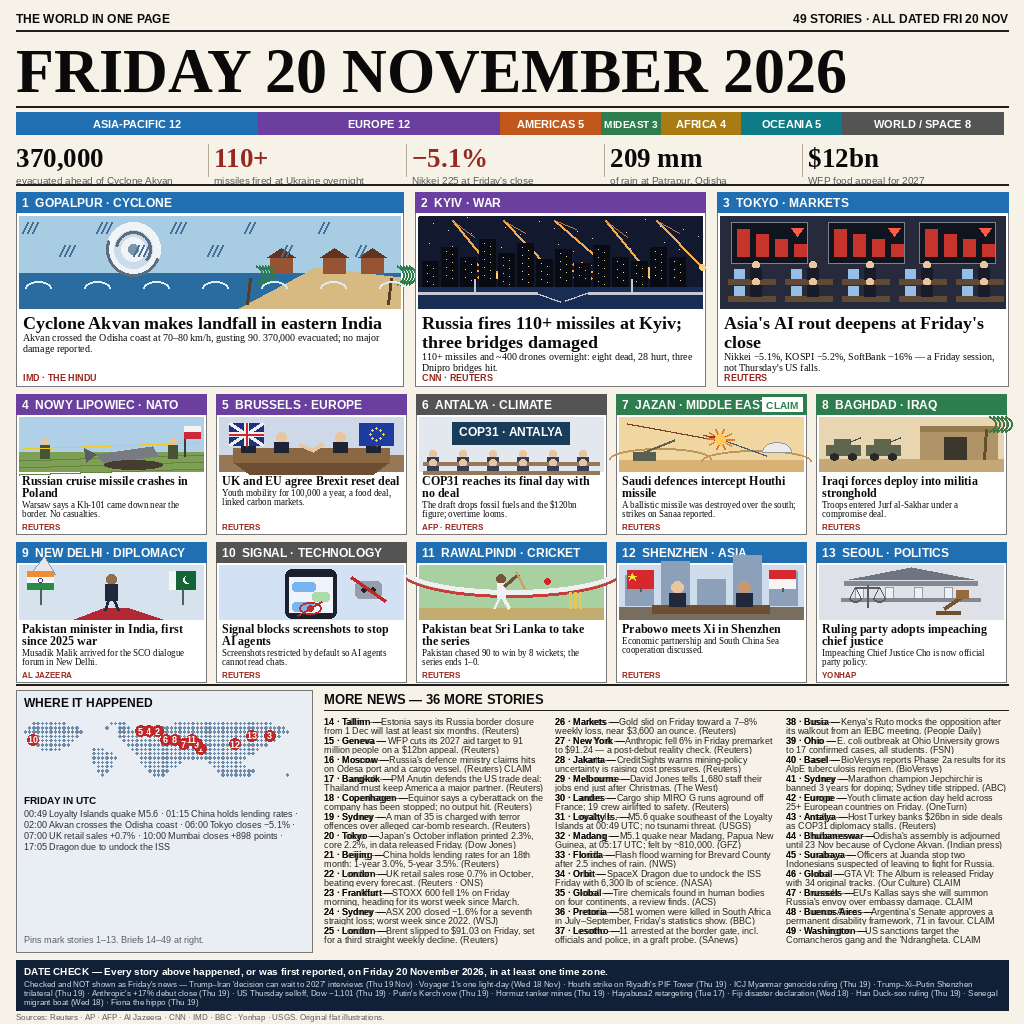
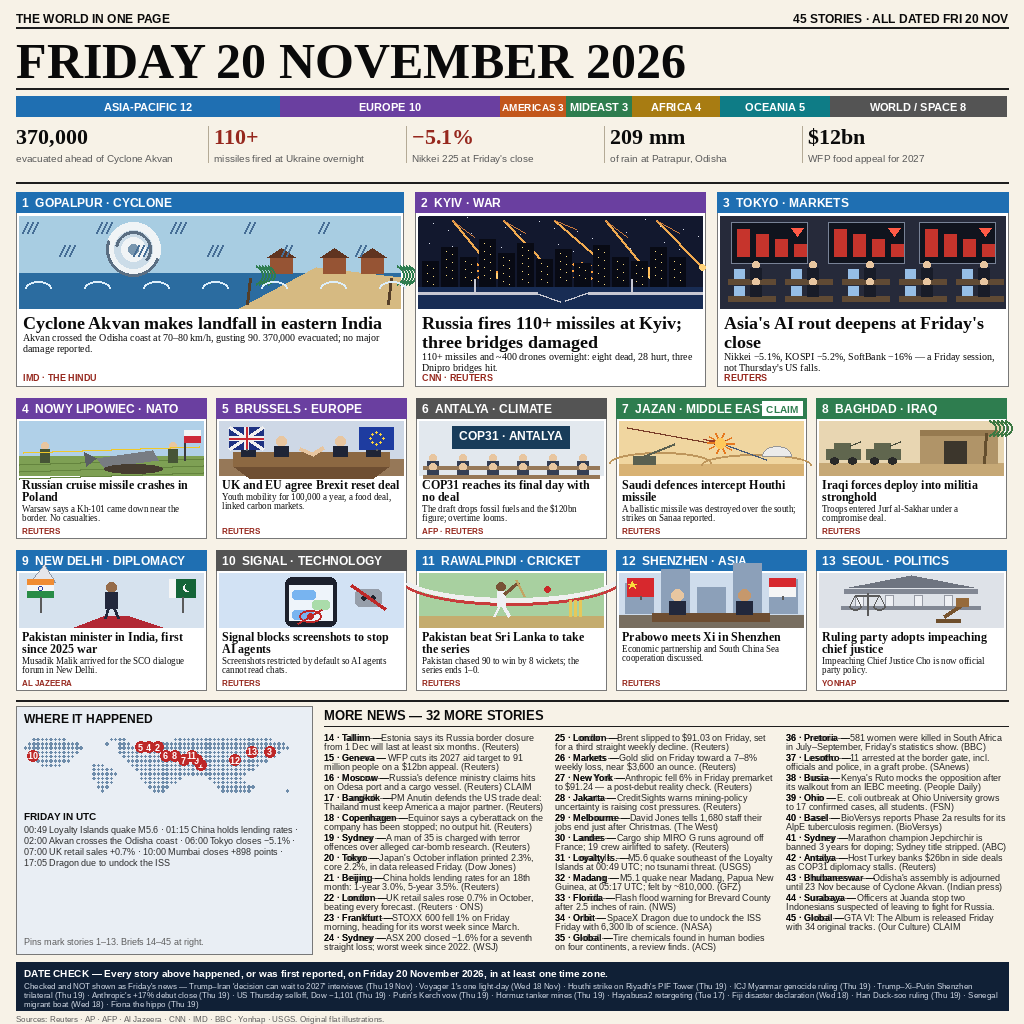
Revision per Keva 19:06-19:08: fewer briefs (45 stories), top margin on every row, figures captions clear of the rule, 3 DATE CHECK band variants

Changed region(s): [[0.0, 0.375, 1.0, 1.0], [0.0, 0.0, 1.0, 0.1875]]

diff --git a/render.py b/render.py
@@ -507,14 +507,10 @@ BRIEFS = [
     (39, "Ohio", "E. coli outbreak at Ohio University grows to 17 confirmed cases, all students. (FSN)"),
     (40, "Basel", "BioVersys reports Phase 2a results for its AlpE tuberculosis regimen. (BioVersys)"),
     (41, "Sydney", "Marathon champion Jepchirchir is banned 3 years for doping; Sydney title stripped. (ABC)"),
-    (42, "Europe", "Youth climate action day held across 25+ European countries on Friday. (OneTurn)"),
-    (43, "Antalya", "Host Turkey banks $26bn in side deals as COP31 diplomacy stalls. (Reuters)"),
-    (44, "Bhubaneswar", "Odisha's assembly is adjourned until 23 Nov because of Cyclone Akvan. (Indian press)"),
-    (45, "Surabaya", "Officers at Juanda stop two Indonesians suspected of leaving to fight for Russia."),
-    (46, "Global", "GTA VI: The Album is released Friday with 34 original tracks. (Our Culture) CLAIM"),
-    (47, "Brussels", "EU's Kallas says she will summon Russia's envoy over embassy damage. CLAIM"),
-    (48, "Buenos Aires", "Argentina's Senate approves a permanent disability framework, 71 in favour. CLAIM"),
-    (49, "Washington", "US sanctions target the Comancheros gang and the 'Ndrangheta. CLAIM"),
+    (42, "Antalya", "Host Turkey banks $26bn in side deals as COP31 diplomacy stalls. (Reuters)"),
+    (43, "Bhubaneswar", "Odisha's assembly is adjourned until 23 Nov because of Cyclone Akvan. (Indian press)"),
+    (44, "Surabaya", "Officers at Juanda stop two Indonesians suspected of leaving to fight for Russia."),
+    (45, "Global", "GTA VI: The Album is released Friday with 34 original tracks. (Our Culture) CLAIM"),
 ]
 FIGURES = [
     ("370,000", "evacuated ahead of Cyclone Akvan"),
@@ -535,11 +531,11 @@ CW = W - 2 * MX  # 992
 # masthead
 f = F(SANS_B, 12)
 d.text((MX, 12), "THE WORLD IN ONE PAGE", font=f, fill=INK)
-r = "49 STORIES · ALL DATED FRI 20 NOV"
+r = "45 STORIES · ALL DATED FRI 20 NOV"
 d.text((W - MX - tw(f, r), 12), r, font=f, fill=INK)
-d.line([MX, 30, W - MX, 30], fill=RULE, width=2)
-draw_fit("FRIDAY 20 NOVEMBER 2026", MX, 36, SERIF_B, 62, CW, 1, fill=INK)
-d.line([MX, 106, W - MX, 106], fill=RULE, width=2)
+d.line([MX, 27, W - MX, 27], fill=RULE, width=2)
+draw_fit("FRIDAY 20 NOVEMBER 2026", MX, 33, SERIF_B, 50, CW, 1, fill=INK)
+d.line([MX, 88, W - MX, 88], fill=RULE, width=2)
 
 # region bar (counts from data)
 from collections import Counter
@@ -549,8 +545,8 @@ for p in HEROES + CARDS:
 brief_regions = ["EUROPE", "WORLD", "EUROPE", "ASIA", "EUROPE", "OCEANIA", "ASIA", "ASIA", "EUROPE", "EUROPE",
                  "OCEANIA", "WORLD", "WORLD", "AMERICAS", "ASIA", "OCEANIA", "EUROPE", "OCEANIA", "OCEANIA",
                  "AMERICAS", "WORLD", "WORLD", "AFRICA", "AFRICA", "AFRICA", "AMERICAS", "EUROPE", "AFRICA",
-                 "EUROPE", "MIDEAST", "ASIA", "ASIA", "WORLD", "EUROPE", "AMERICAS", "AMERICAS"]
-assert len(brief_regions) == len(BRIEFS) == 36, (len(brief_regions), len(BRIEFS))
+                 "MIDEAST", "ASIA", "ASIA", "WORLD"]
+assert len(brief_regions) == len(BRIEFS) == 32, (len(brief_regions), len(BRIEFS))
 for rgn in brief_regions:
     cnt[rgn] += 1
 order = ["ASIA", "EUROPE", "AMERICAS", "MIDEAST", "AFRICA", "OCEANIA", "WORLD"]
@@ -558,30 +554,30 @@ names = {"ASIA": "ASIA-PACIFIC", "EUROPE": "EUROPE", "AMERICAS": "AMERICAS", "MI
          "AFRICA": "AFRICA", "OCEANIA": "OCEANIA", "WORLD": "WORLD / SPACE"}
 total = sum(cnt[o] for o in order)
 x = MX
-ybar = 112
+ybar = 96
 for o in order:
     wseg = int(CW * cnt[o] / total)
-    d.rectangle([x, ybar, x + wseg, ybar + 22], fill=REGION_COLORS[o])
+    d.rectangle([x, ybar, x + wseg, ybar + 20], fill=REGION_COLORS[o])
     lab = f"{names[o]} {cnt[o]}"
     for _sz in (11, 10, 9, 8):
         fl = F(SANS_B, _sz)
         if tw(fl, lab) < wseg - 4:
-            d.text((x + (wseg - tw(fl, lab)) / 2, ybar + 6), lab, font=fl, fill=(255, 255, 255))
+            d.text((x + (wseg - tw(fl, lab)) / 2, ybar + 5), lab, font=fl, fill=(255, 255, 255))
             break
     x += wseg
 
-# figures row
-yfig = 142
+# figures row (caption ends ~yfig+49; rule below at 182 keeps 9px clear — no strike-through)
+yfig = 124
 fw = CW // 5
 for i, (num, cap) in enumerate(FIGURES):
     fx = MX + i * fw
     if i:
-        d.line([fx - 6, yfig + 2, fx - 6, yfig + 34], fill=(180, 170, 150), width=1)
-    draw_fit(num, fx, yfig, SERIF_B, 27, fw - 12, 1, fill=(150, 40, 30) if i in (1, 2) else INK)
-    draw_fit(cap, fx, yfig + 32, SANS, 10, fw - 12, 2, fill=GREY, leading=1.05)
-d.line([MX, 184, W - MX, 184], fill=RULE, width=2)
+        d.line([fx - 6, yfig + 2, fx - 6, yfig + 38], fill=(180, 170, 150), width=1)
+    draw_fit(num, fx, yfig, SERIF_B, 22, fw - 12, 1, fill=(150, 40, 30) if i in (1, 2) else INK)
+    draw_fit(cap, fx, yfig + 28, SANS, 10, fw - 12, 2, fill=GREY, leading=1.05)
+d.line([MX, 182, W - MX, 182], fill=RULE, width=2)
 
-# heroes: y 192..386 (194 tall), widths 4:3:3
+# heroes: y 192..386 (194 tall, 10px margin above from rule at 182), widths 4:3:3
 HY, HH = 192, 194
 gaps = 12
 usable = CW - 2 * gaps
@@ -599,13 +595,13 @@ for p, wpx in zip(HEROES, hw):
     d.text((x + 7, HY + HH - 14), p["source"], font=F(SANS_B, 9), fill=(150, 40, 30))
     x += wpx + gaps
 
-# cards: two rows of five, y 394.. and 540.., 140 tall
-CY = 394
+# cards: two rows of five, y 398.. and 550.., 140 tall, 12px margin above each row
+CY = 398
 CHH = 140
 cgap = 10
 cw5 = (CW - 4 * cgap) // 5
 for row in range(2):
-    y = CY + row * (CHH + 8)
+    y = CY + row * (CHH + 12)
     for col in range(5):
         p = CARDS[row * 5 + col]
         x = MX + col * (cw5 + cgap)
@@ -619,8 +615,8 @@ for row in range(2):
         draw_fit(p["summary"], x + 6, ty + 1, SERIF, 9, cw5 - 12, 2, leading=1.08)
         d.text((x + 6, y + CHH - 12), p["source"], font=F(SANS_B, 8), fill=(150, 40, 30))
 
-# bottom band: map left, briefs right — y 690..952
-BY, BH = 690, 262
+# bottom band: map left, briefs right — y 706..954 (rule at 700, 10px below cards)
+BY, BH = 706, 248
 d.line([MX, BY - 6, W - MX, BY - 6], fill=RULE, width=2)
 MAPW = 296
 d.rectangle([MX, BY, MX + MAPW, BY + BH], fill=(233, 238, 244), outline=(120, 120, 120))
@@ -665,18 +661,18 @@ d.text((MX + 8, tl_y), "FRIDAY IN UTC", font=F(SANS_B, 10), fill=INK)
 draw_fit("00:49 Loyalty Islands quake M5.6 · 01:15 China holds lending rates · 02:00 Akvan crosses the Odisha coast · "
          "06:00 Tokyo closes −5.1% · 07:00 UK retail sales +0.7% · 10:00 Mumbai closes +898 points · 17:05 Dragon due to undock the ISS",
          MX + 8, tl_y + 14, SANS, 9, MAPW - 16, 6, fill=(40, 40, 40), leading=1.25)
-d.text((MX + 8, BY + BH - 18), "Pins mark stories 1–13. Briefs 14–49 at right.", font=F(SANS, 9), fill=GREY)
+d.text((MX + 8, BY + BH - 18), "Pins mark stories 1–13. Briefs 14–45 at right.", font=F(SANS, 9), fill=GREY)
 
 # briefs: 3 columns x 12
 BX = MX + MAPW + 12
 BW3 = (W - MX - BX - 2 * 10) // 3
-d.text((BX, BY + 2), "MORE NEWS — 36 MORE STORIES", font=F(SANS_B, 13), fill=INK)
+d.text((BX, BY + 2), "MORE NEWS — 32 MORE STORIES", font=F(SANS_B, 13), fill=INK)
 d.line([BX, BY + 20, W - MX, BY + 20], fill=RULE, width=1)
-per_col = 12
+per_col = 11
 for i, (num, city, text) in enumerate(BRIEFS):
     col = i // per_col; row = i % per_col
     bx = BX + col * (BW3 + 10)
-    by = BY + 26 + row * 19
+    by = BY + 26 + row * 20
     head = f"{num} · {city} — "
     fb = F(SANS_B, 9)
     d.text((bx, by), head, font=fb, fill=INK)
@@ -692,15 +688,25 @@ for i, (num, city, text) in enumerate(BRIEFS):
         yy += 9.5
     d.text((bx, by), head, font=fb, fill=INK)
 
-# date check band
-DY = 960
-d.rectangle([MX, DY, W - MX, DY + 50], fill=NAVY)
+# date check band — 3 style variants (DATECHECK env): dark (current), cream, red
+DY = 962
+DC_STYLE = os.environ.get("DATECHECK", "dark")
+DC_STYLES = {
+    # v1 "hitam": deep navy band, white title, pale body (perlakuan saat ini)
+    "dark":  dict(fill=NAVY, outline=None, title=(255, 255, 255), body=(210, 218, 230)),
+    # v2 "krem": nada kertas masthead, teks tinta gelap, bingkai garis tegas
+    "cream": dict(fill=(252, 248, 238), outline=RULE, title=INK, body=(45, 45, 45)),
+    # v3 "merah aksen": merah tua yang sama dengan angka figur & label sumber
+    "red":   dict(fill=(150, 40, 30), outline=None, title=(255, 255, 255), body=(252, 228, 218)),
+}
+dc = DC_STYLES[DC_STYLE]
+d.rectangle([MX, DY, W - MX, DY + 48], fill=dc["fill"], outline=dc["outline"], width=2 if dc["outline"] else 1)
 d.text((MX + 8, DY + 5), "DATE CHECK — Every story above happened, or was first reported, on Friday 20 November 2026, in at least one time zone.",
-       font=F(SANS_B, 10), fill=(255, 255, 255))
-draw_fit(EXCLUSIONS, MX + 8, DY + 19, SANS, 8, CW - 16, 3, fill=(210, 218, 230), leading=1.15)
-d.text((MX, H - 12), "Sources: Reuters · AP · AFP · Al Jazeera · CNN · IMD · BBC · Yonhap · USGS. Original flat illustrations.",
+       font=F(SANS_B, 10), fill=dc["title"])
+draw_fit(EXCLUSIONS, MX + 8, DY + 19, SANS, 8, CW - 16, 3, fill=dc["body"], leading=1.15)
+d.text((MX, H - 10), "Sources: Reuters · AP · AFP · Al Jazeera · CNN · IMD · BBC · Yonhap · USGS. Original flat illustrations.",
        font=F(SANS, 8), fill=GREY)
 
-out = os.path.join(os.path.dirname(os.path.abspath(__file__)), "entry.png")
+out = os.path.join(os.path.dirname(os.path.abspath(__file__)), os.environ.get("OUT_PNG", "entry.png"))
 img.save(out, optimize=True)
 print("saved", out, os.path.getsize(out), "bytes")

diff --git a/main.py b/main.py
@@ -2,7 +2,7 @@
 """news-image-20261120 entry: "The World in One Page — Friday 20 November 2026".
 
 The deliverable is entry.png, a one-page illustrated news sheet of Friday
-20 November 2026 (49 stories, all dated that day). This entrypoint simply
+20 November 2026 (45 stories, all dated that day). This entrypoint simply
 copies the pre-rendered sheet into the directory named by MAKEFUN_OUTPUT_DIR
 (or ./output). Standard library only.
 """
